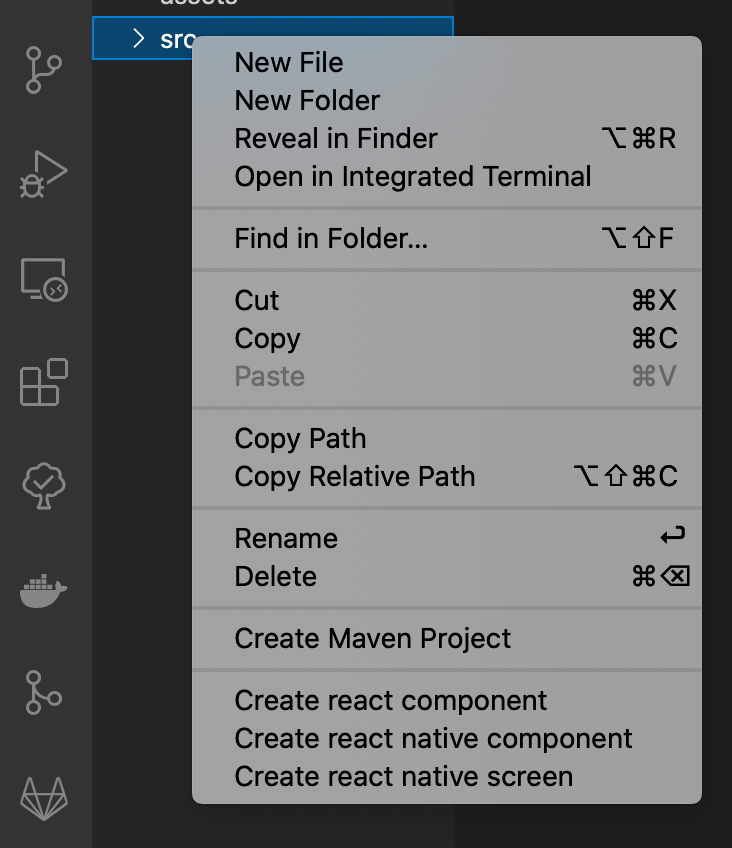
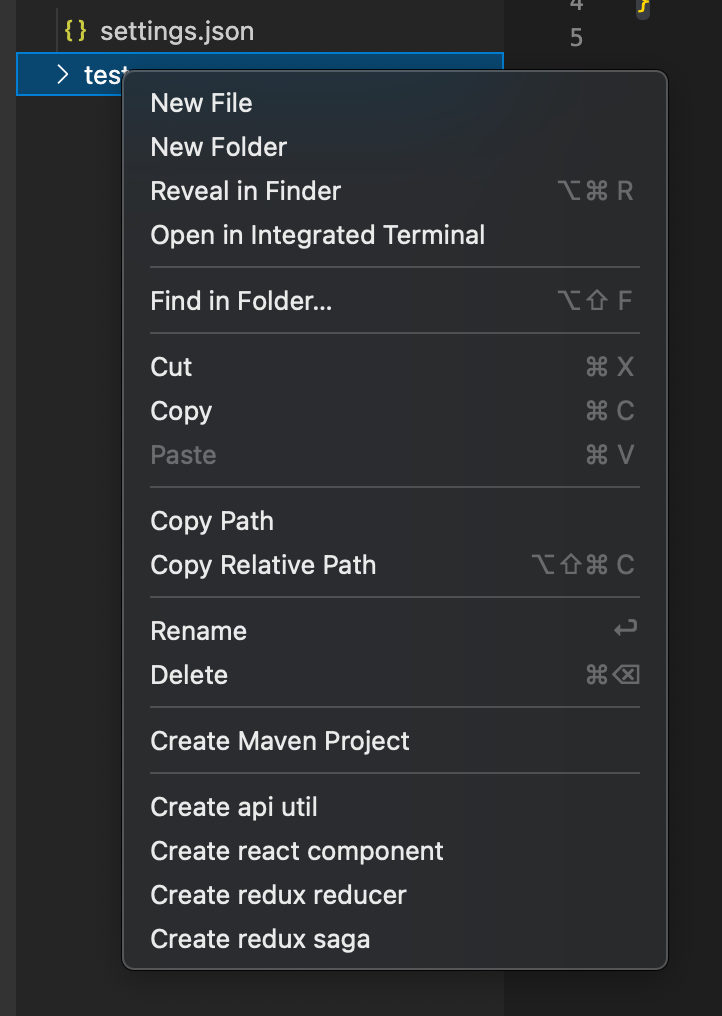
[UPD]: Readme md

diff --git a/README.md b/README.md
@@ -1,7 +1,30 @@
-# React Quick Workflow README
+# React Quick Workflow
+
+## Supported styles
+
+Now only styled components supported for react and default styling for react native
+
+## Configuration
+
+You can configure projet type
+
+Just add this line to your settings.json or configure this in vscode settings
+
+```JSON
+{
+    "reactquickworkflow.projectType": "react" // or react-native
+}
+```
 
 ## Features
 
 You can create react component, react native component and react native screen, just simple right click on the folder.
+Also you can generate reducer or saga.
 
 <img src="./images/readme/features.png" width="300" >
+
+## How it works
+
+> Example 1
+
+<img src="./images/readme/example1.gif" width="700" >
